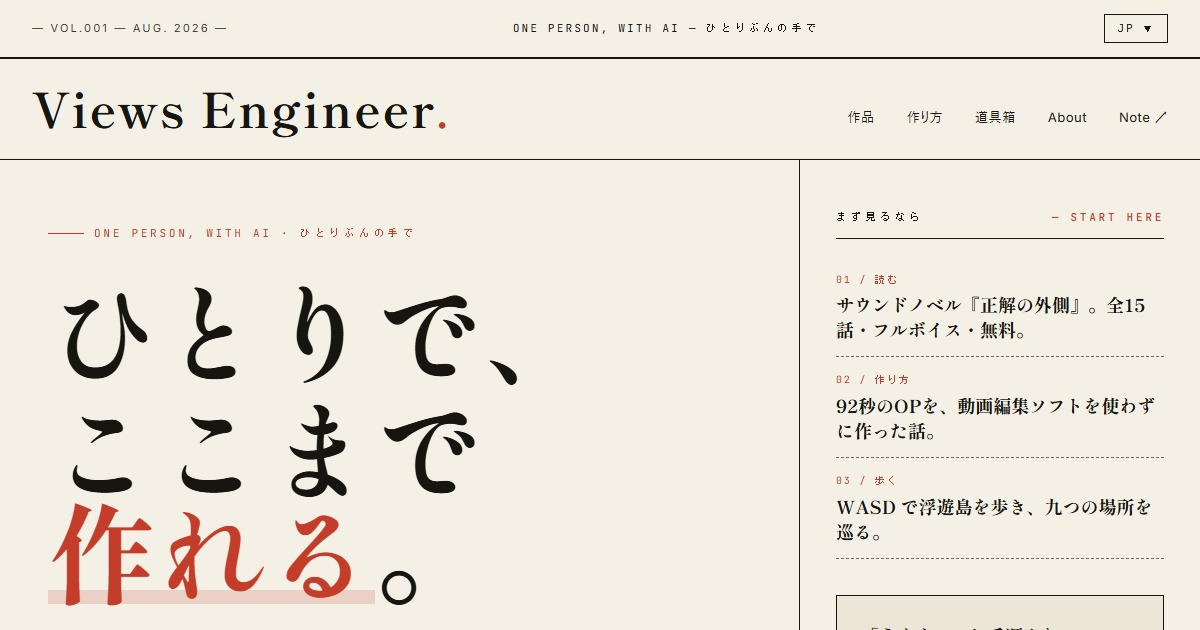
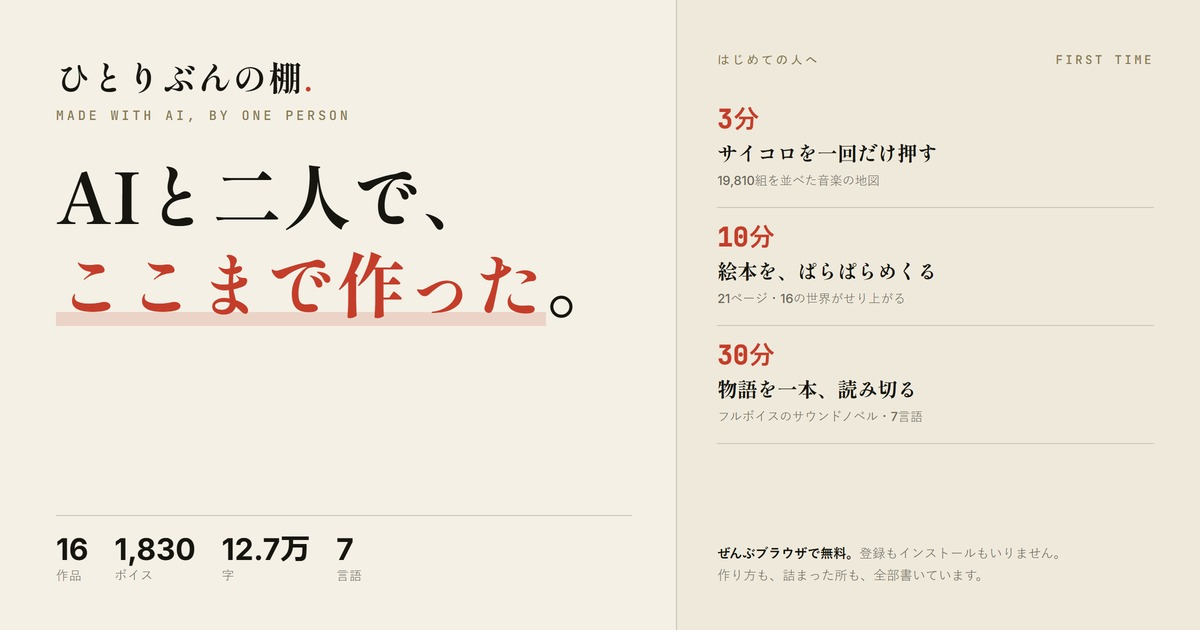
fix(ogp): トップのOGP画像を現行のサイトに合わせて作り直す
共有されたときに出る画像が、全面的に古かった。
- 見出しが「ひとりで、ここまで作れる。」（現行は「AIと二人で、ここまで作った。」）
- ブランド名が旧称の Views Engineer（現行は「ひとりぶんの棚」）
- 入口の案内が旧構成（現行は 3分/10分/30分）

画像の中の文字はgrepに引っかからないので、数字の照合では
見つからない。6ページがこの1枚を参照していた。

載せた数字は audit_claims.py を通した実測値のみ
（16作品・ボイス1,830本・12.7万字・7言語・19,810組・21ページ）。
テンプレートは _dev/og-index.html に置いたので、数字が変わったら
再描画できる。

diff --git a/_dev/og-index.html b/_dev/og-index.html
@@ -1,0 +1,81 @@
+<!DOCTYPE html>
+<html lang="ja">
+<head>
+<meta charset="utf-8">
+<title>OG index</title>
+<link href="https://fonts.googleapis.com/css2?family=Shippori+Mincho:wght@500;700&family=Inter:wght@500;600;700&family=JetBrains+Mono:wght@500&display=swap" rel="stylesheet">
+<style>
+*{margin:0;padding:0;box-sizing:border-box}
+html,body{width:1200px;height:630px;overflow:hidden}
+body{background:#f4f0e6;color:#161510;
+  font-family:Inter,"Hiragino Sans","Yu Gothic",sans-serif}
+#stage{position:relative;width:1200px;height:630px;display:flex}
+
+/* 左: 見出し */
+.left{flex:1.32;padding:52px 44px 44px 56px;display:flex;flex-direction:column;justify-content:space-between;
+  border-right:1px solid rgba(26,24,18,.2)}
+.brand{font-family:"Shippori Mincho",serif;font-size:34px;font-weight:700;letter-spacing:.04em}
+.brand span{color:#c43d2a}
+.kick{font-family:"JetBrains Mono",monospace;font-size:13px;letter-spacing:.24em;
+  color:#8a7a52;margin-top:6px}
+.h{font-family:"Shippori Mincho",serif;font-size:70px;line-height:1.26;font-weight:700;margin-top:26px;white-space:nowrap}
+.h em{font-style:normal;color:#c43d2a;position:relative}
+.h em::after{content:"";position:absolute;left:0;right:0;bottom:6px;height:14px;
+  background:rgba(196,61,42,.16);z-index:-1}
+.nums{display:flex;gap:26px;margin-top:auto;padding-top:18px;border-top:1px solid rgba(26,24,18,.18)}
+.n b{display:block;font-family:Inter,sans-serif;font-size:30px;font-weight:700;line-height:1}
+.n span{font-size:12.5px;color:#6b6759;letter-spacing:.04em}
+
+/* 右: 時間で選ぶ入口 */
+.right{flex:1;padding:52px 46px 44px 40px;background:#efe9db;display:flex;flex-direction:column}
+.rt{font-family:"JetBrains Mono",monospace;font-size:12px;letter-spacing:.22em;color:#8a7a52;
+  display:flex;justify-content:space-between;margin-bottom:22px}
+.row{padding:16px 0;border-bottom:1px solid rgba(26,24,18,.16)}
+.row:last-of-type{border-bottom:0}
+.row .t{font-family:"JetBrains Mono",monospace;font-size:26px;font-weight:700;color:#c43d2a;line-height:1}
+.row .d{font-family:"Shippori Mincho",serif;font-size:20px;font-weight:700;margin-top:7px;line-height:1.4}
+.row .s{font-size:12.5px;color:#6b6759;margin-top:4px}
+.foot{margin-top:auto;font-size:13px;color:#6b6759;line-height:1.7}
+.foot b{color:#161510}
+</style>
+</head>
+<body>
+<div id="stage">
+  <div class="left">
+    <div>
+      <div class="brand">ひとりぶんの棚<span>.</span></div>
+      <div class="kick">MADE WITH AI, BY ONE PERSON</div>
+      <div class="h">AIと二人で、<br><em>ここまで作った</em>。</div>
+    </div>
+    <div class="nums">
+      <div class="n"><b>16</b><span>作品</span></div>
+      <div class="n"><b>1,830</b><span>ボイス</span></div>
+      <div class="n"><b>12.7万</b><span>字</span></div>
+      <div class="n"><b>7</b><span>言語</span></div>
+    </div>
+  </div>
+  <div class="right">
+    <div class="rt"><span>はじめての人へ</span><span>FIRST TIME</span></div>
+    <div class="row">
+      <div class="t">3分</div>
+      <div class="d">サイコロを一回だけ押す</div>
+      <div class="s">19,810組を並べた音楽の地図</div>
+    </div>
+    <div class="row">
+      <div class="t">10分</div>
+      <div class="d">絵本を、ぱらぱらめくる</div>
+      <div class="s">21ページ・16の世界がせり上がる</div>
+    </div>
+    <div class="row">
+      <div class="t">30分</div>
+      <div class="d">物語を一本、読み切る</div>
+      <div class="s">フルボイスのサウンドノベル・7言語</div>
+    </div>
+    <div class="foot">
+      <b>ぜんぶブラウザで無料。</b>登録もインストールもいりません。<br>
+      作り方も、詰まった所も、全部書いています。
+    </div>
+  </div>
+</div>
+</body>
+</html>
